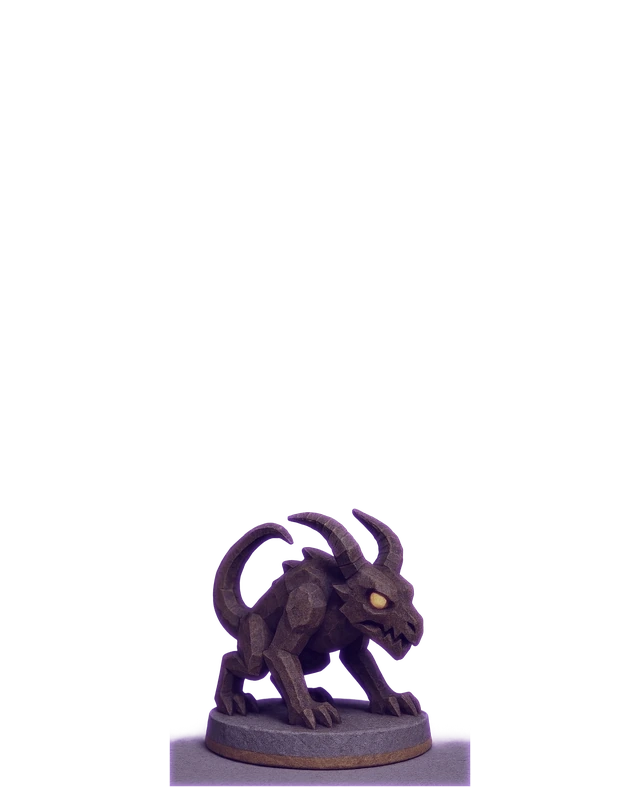
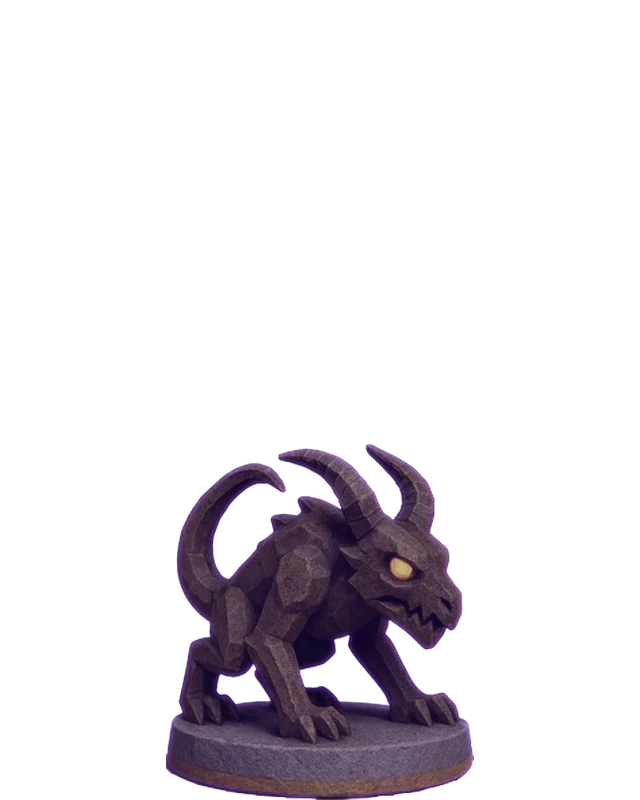
v0.67.0 Neuer Hetzer des Besitzers eingebaut (roh uebernommen, Sockel 307, Hoehe 356, Schattenzwilling via verdorben-v2) und Leuchtende Konturen in der Werkstatt nach Bildprogramm-Vorbild mit Kantenbreite/Kantenhelligkeit/Glaettung (Sobel + Max-Filter + Kastenweichzeichner; Sondenbeleg Mittel 101->1

Changed region(s): [[0.25, 0.5312, 0.75, 1.0]]

diff --git a/src/app/ui/WerkstattScreen.jsx b/src/app/ui/WerkstattScreen.jsx
@@ -15,6 +15,7 @@ const STANDARD = {
   spreizen: 0, sattGrau: 1.0, sattLila: 1.0,
   glimmSchwelle: 72, glimmStaerke: 1.0, glimmChroma: 1.0,
   ersatzAn: false, ersatzVon: 200, ersatzToleranz: 40, ersatzNach: 275,
+  konturAn: false, kantenBreite: 2, kantenHell: 11, glaettung: 6, // Leuchtende Konturen (Bildprogramm-Art)
 };
 const V5 = { ...STANDARD, spreizen: 1, sattGrau: 0.28, sattLila: 0.75, glimmStaerke: 1.62, glimmChroma: 1.18 };
 const SCHLUESSEL = "gg_werkstatt_v1";
@@ -85,6 +86,52 @@ function rechne(id, w, h, p) {
       b=Math.max(0,Math.min(255,l3+(b-l3)*p.glimmChroma));
     }
     d[i*4]=r; d[i*4+1]=g; d[i*4+2]=b;
+  }
+  // ── LEUCHTENDE KONTUREN (Besitzer, v0.67, nach Bildprogramm-Vorbild) ──
+  // Kantenbreite / Kantenhelligkeit / Glaettung wie im Original: erst wird
+  // je Farbkanal geglaettet (Kastenweichzeichner), dann findet Sobel die
+  // Kanten, die Helligkeit skaliert sie, die Breite verdickt sie (Max-
+  // Filter) - alles Flache faellt ins Schwarze, die Kanten gluehen in der
+  // Farbe der Figur. Das Alpha bleibt unangetastet.
+  if (p.konturAn) {
+    const K = [new Float32Array(n), new Float32Array(n), new Float32Array(n)];
+    for (let i = 0; i < n; i++) { K[0][i]=d[i*4]; K[1][i]=d[i*4+1]; K[2][i]=d[i*4+2]; }
+    const rb = Math.max(0, Math.round((p.glaettung||0) / 2));
+    const glatt = (q) => { if (!rb) return q;
+      const t = new Float32Array(n);
+      for (let y = 0; y < h; y++) { let sum = 0; const z = y*w;
+        for (let x = -rb; x <= rb; x++) sum += q[z + Math.max(0, Math.min(w-1, x))];
+        for (let x = 0; x < w; x++) { t[z+x] = sum / (2*rb+1);
+          sum += q[z + Math.min(w-1, x+rb+1)] - q[z + Math.max(0, x-rb)]; } }
+      const u = new Float32Array(n);
+      for (let x = 0; x < w; x++) { let sum = 0;
+        for (let y = -rb; y <= rb; y++) sum += t[Math.max(0, Math.min(h-1, y))*w + x];
+        for (let y = 0; y < h; y++) { u[y*w+x] = sum / (2*rb+1);
+          sum += t[Math.min(h-1, y+rb+1)*w + x] - t[Math.max(0, y-rb)*w + x]; } }
+      return u; };
+    const faktor = (p.kantenHell || 11) / 5.5;
+    for (let c = 0; c < 3; c++) {
+      const q = glatt(K[c]); const m = new Float32Array(n);
+      for (let y = 1; y < h-1; y++) for (let x = 1; x < w-1; x++) {
+        const z = y*w+x;
+        const gx = q[z-w-1] + 2*q[z-1] + q[z+w-1] - q[z-w+1] - 2*q[z+1] - q[z+w+1];
+        const gy = q[z-w-1] + 2*q[z-w] + q[z-w+1] - q[z+w-1] - 2*q[z+w] - q[z+w+1];
+        m[z] = Math.min(255, Math.sqrt(gx*gx + gy*gy) * faktor * 0.25);
+      }
+      let e = m;
+      for (let t2 = 1; t2 < Math.min(8, p.kantenBreite || 1); t2++) {
+        const dick = new Float32Array(n);
+        for (let y = 1; y < h-1; y++) for (let x = 1; x < w-1; x++) {
+          const z = y*w+x;
+          dick[z] = Math.max(e[z], e[z-1], e[z+1], e[z-w], e[z+w]);
+        }
+        e = dick;
+      }
+      K[c] = e;
+    }
+    for (let i = 0; i < n; i++) if (d[i*4+3] > 32) {
+      d[i*4] = K[0][i]; d[i*4+1] = K[1][i]; d[i*4+2] = K[2][i];
+    }
   }
   return id;
 }
@@ -611,6 +658,20 @@ export function WerkstattScreen() {
               <span style={{color:T.goldBright,fontWeight:800}}>{p[k]}°</span></div>
             <input type="range" min={k==="ersatzToleranz"?5:0} max={k==="ersatzToleranz"?120:360} step={1}
               value={p[k]} onChange={(e)=>setP({...p,[k]:+e.target.value})} style={{width:"100%"}}/>
+          </div>
+        ))}
+      </div>
+
+      <div style={{borderTop:`1px solid ${T.line}`,margin:"10px 0",paddingTop:8}}>
+        <label style={{fontSize:12,display:"flex",gap:8,alignItems:"center",marginBottom:6}}>
+          <input type="checkbox" checked={p.konturAn} onChange={(e)=>setP({...p,konturAn:e.target.checked})}/>
+          Leuchtende Konturen (wie im Bildprogramm)</label>
+        {p.konturAn && [["kantenBreite","Kantenbreite",1,8,1],["kantenHell","Kantenhelligkeit",1,20,1],["glaettung","Glättung",0,14,1]].map(([k,name,min,max,schritt])=>(
+          <div key={k} style={{marginBottom:6}}>
+            <div style={{display:"flex",justifyContent:"space-between",fontSize:11.5}}>
+              <span>{name}</span><span style={{color:T.goldBright,fontWeight:800}}>{p[k]}</span></div>
+            <input type="range" min={min} max={max} step={schritt} value={p[k]}
+              onChange={(e)=>setP({...p,[k]:+e.target.value})} style={{width:"100%"}}/>
           </div>
         ))}
       </div>

diff --git a/CHANGELOG.md b/CHANGELOG.md
@@ -1,5 +1,23 @@
 # Changelog - Grand Gambit
 
+## 0.67.0
+
+DER NEUE HETZER UND DIE LEUCHTENDEN KONTUREN:
+
+- DER HETZER (b02), vom Besitzer neu gezeichnet, ist eingebaut: aufs
+  Familienmass gebracht (Sockel exakt 307 px, Hoehe 356 statt vormals 279
+  - er steht endlich wie seine Brueder), Schattenzwilling frisch via
+  verdorben-v2 (Torwaechter sauber). Der Upload kam bereits freigestellt
+  und wurde ROH uebernommen (Alpha gemessen, Lehre aus v0.63.1).
+- LEUCHTENDE KONTUREN in der Figurenwerkstatt, nach Bildprogramm-Vorbild
+  und mit denselben drei Reglern: KANTENBREITE (Max-Filter verdickt),
+  KANTENHELLIGKEIT (skaliert das Gluehen), GLAETTUNG (Kastenweichzeichner
+  vor der Sobel-Kantensuche). Alles Flache faellt ins Schwarze, die
+  Kanten gluehen in der Farbe der Figur; das Alpha bleibt unangetastet.
+  Wird je Figur gespeichert und wandert wie alles in Zip-Export und
+  GitHub-Ladung. Sondenbeleg: Mittel-Helligkeit 101 -> 18 bei stehendem
+  Maximum 207.
+
 ## 0.66.0
 
 DIE FELDER DES BESITZERS AUF JEDEM BRETT, AKADEMIE-KACHEL, RISS NACH KAPITEL:
